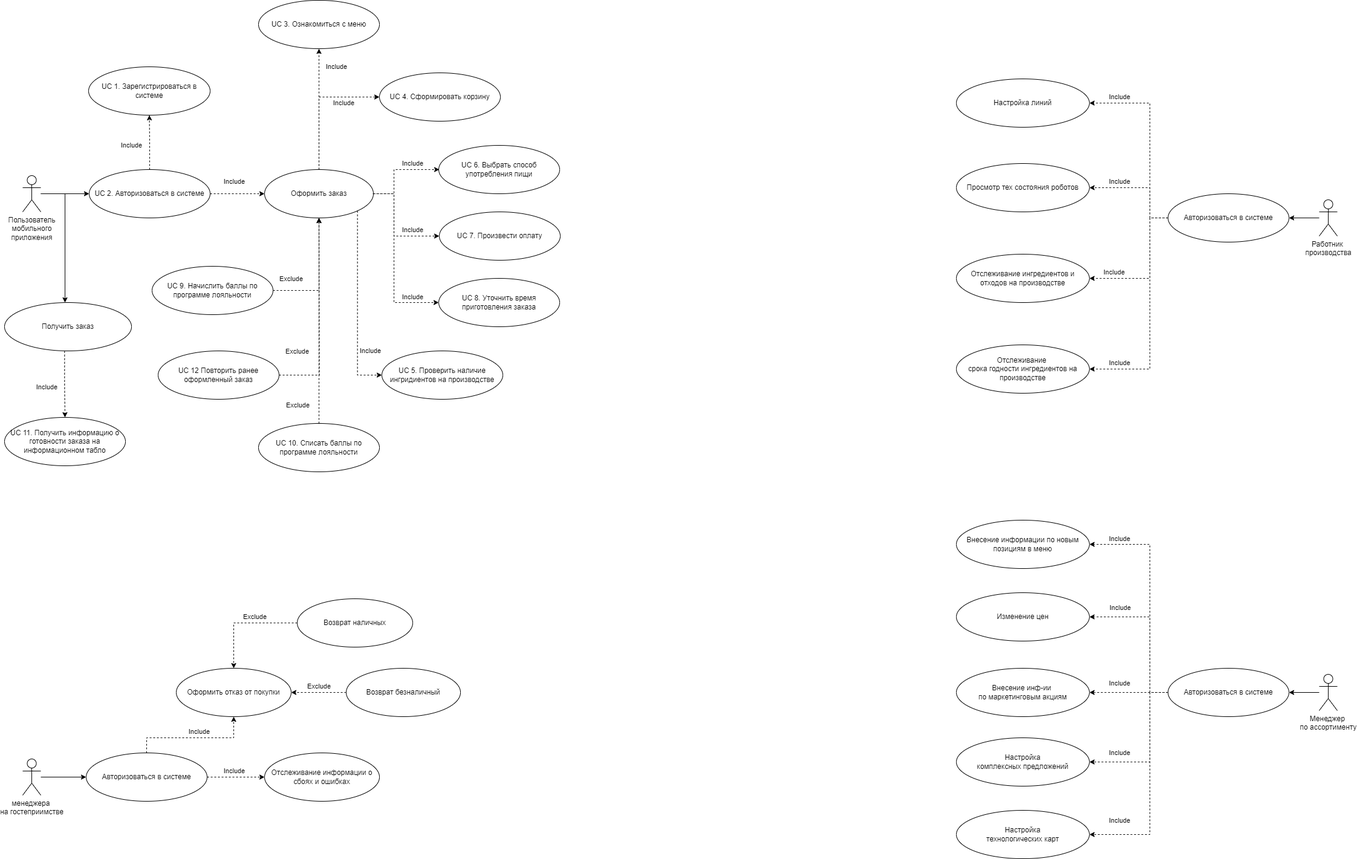
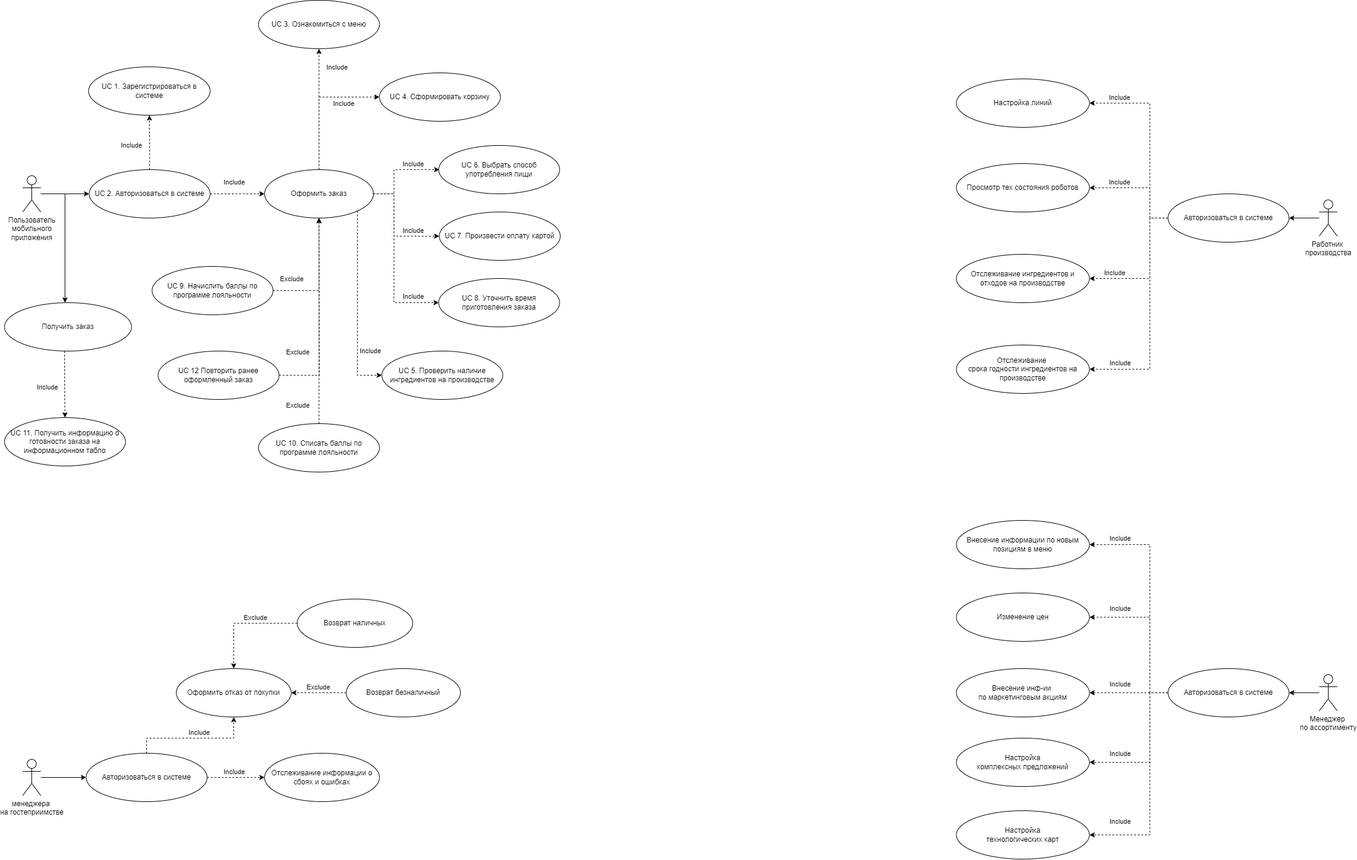
Attention1

diff --git a/5_SystemRequirements.md b/5_SystemRequirements.md
@@ -83,7 +83,7 @@ NFSUP2 Система должна обеспечивать мониторинг
 Основной сценарий |1. Пользователь нажал на кнопку N1 <br> 2. Система открыла страницу регистрации в приложении <br> 3. Пользователь заполнил все обязательные поля и нажал кнопку N2 <br> 4. Система проверила, что пользователь заполнил все обязательные поля <br> 5. Система проверила, что введенный номер телефона ранее не использовался при регистрации <br> 6. Система проверила, что E-mail ранее не использовался при регистрации <br> 7. Система проверила, что пароли одинаковые <br> 8. Система отобразила страницу подтверждения регистрации по СМС <br> 9. Пользователь ввел полученный код из СМС <br> 10. Система проверила правильность введенного кода из СМС <br> 11. Система открыла странцу с выбором категорий меню.Конец сценария.
 Альтернативный сценарий | AF1-3: Авторизация вместо регистрации. <br> 3.1. Пользователь нажал кнопку N20 <br> 3.2. Система отобразила страницу выбора авторизации или регистрации. Конец сценария.<br><br> AF1-4:Информация заполнена некорректно. <br> 4.1.Система вывела сообщение M1. Некорректно заполненная информация выделена красным цветом.  <br>  4.2.  Пользователь нажал кнопку N21  <br> 4.3. Переход к п.3 основного сценария. Конец сценария.<br><br> AF1-5:  Номер телефона уже существует в системе. <br> 5.1. Система вывела сообщение M2.Некорректно заполненная информация выделена красным цветом.  <br>  5.2.  Пользователь нажал кнопку N21  <br> 5.3. Переход к п.1 альтернативного сценария AF1-2. Конец сценария.<br><br> AF1-6: E-mail уже существует в системе. <br> 6.1. Система вывела сообщение M3. Некорректно заполненная информация выделена красным цветом.  <br>  6.2.  Пользователь нажал кнопку N21  <br> 6.3. Пользователь ввел новый E-mail и нажал кнопку N2 <br> 6.4. Переход к п.6 основного сценария. Конец сценария.<br><br> AF1-7:  Информация заполнена некорректно. <br> 7.1. Система вывела сообщение M4.Некорректно заполненная информация выделена красным цветом. <br>  7.2.  Пользователь нажал кнопку N21  <br> 7.3. Пользователь ввел в поля "Пароль" и "Повторить пароль" одинаковые значения и нажал кнопку N2 <br> 7.4. Переход к п.7 основного сценария. Конец сценария. <br><br> AF1-8: Корректировка данных на страницу регистрации в приложении  <br> 8.1.  Пользователь нажал кнопку N20 <br> 8.2. Система открыла страницу регистрации в приложении.Конец сценария.<br><br> AF1-9: Повторный запрос СМС <br> 9.1.  Пользователь нажал кнопку N3 <br> 9.2. Переход к п.9 основного сценария. Конец сценария.<br><br> AF1-10: Информация из СМС введена некорректно  <br> 10.1. Система вывела сообщение M5 <br> 10.2. Пользователь нажал кнопку N21  <br> 10.3. Пользователь ввел правильный код из СМС и нажал кнопку N2 <br> 10.4. Переход к п.10 основного сценария. Конец сценария.<br> 
 Наименования элементов пользовательского интерфейса| N1: "Зарегестрироваться" <br> N2: "Зарегестрироваться" <br> N3: "Повторно отправить СМС" <br> N20: "Назад" <br> N21: "OK" <br> M1: "Пользователь не заполнил все обязательные поля" <br> M2: "Введенный номер телефона уже зарегистрирован" <br> M3: "Введенный E-mail уже зарегистрирован " <br> M4: "Введенные пароли отличаются" <br> M5: "Введенный код из СМС не правильный"
-
+Диаграмма|
 
 #### 5.2.2.2 Авторизоваться в системе
 
@@ -95,7 +95,7 @@ NFSUP2 Система должна обеспечивать мониторинг
 Основной сценарий | 1. Пользователь нажал на кнопку 4 <br> 2. Система открыла страницу авторизации в приложении <br> 3. Пользователь заполнил номер телефона <br> 4. Пользователь ввел пароль <br> 5. Пользователь нажал кнопку N5 <br> 6. Система проверила указанный номер телефона и пароль <br> 7. Система открыла страницу с выбором категорий меню. Конец сценария.
 Альтернативный сценарий |AF2-3:Восстановление пароля <br> 3.1.Пользователь нажал на кнопку N6 <br> 3.2. Система вывела диалоговое окно для ввода E-mail, указанного при регистрации <br> 3.3.Пользователь ввел E-mail и нажал кнопку N7 <br> 3.4.Система отправила новый пароль на указанный E-mail<br> 3.5. Переход к п.4 основного сценария. Конец сценария.<br><br> AF2-4: Использование E-mail для авторизации <br> 4.1. Пользователь ввел E-mail <br> 4.2. Переход к п.4 основного сценария. Конец сценария.<br><br> AF2-5:Информация введена некорректно <br> 5.1. Система вывела сообщение M6 <br> 5.2. Переход к п.3 основного сценария. Конец сценария.<br> 
 Наименования элементов пользовательского интерфейса| N4: "Авторизоваться" <br> N5: "Войти" <br> N6: “Восстановить пароль” <br> N7: “Отправить” <br> M6: "Введен не правильный логин/пароль"
-
+Диаграмма|
 
 #### 5.2.2.3 Ознакомится с меню
 
@@ -107,7 +107,7 @@ NFSUP2 Система должна обеспечивать мониторинг
 Основной сценарий | 1. Пользователь нажал на кнопку N8 <br> 2. Система открыла странцу с блюдами выбранной категории <br> 3. Пользователь в левой третей части экрана выбирал категорию блюд нажав кнопку N9 <br> 4. В правой части экрана в области выбора блюд в зависимости от выбранной категории, система отобразила блюда категории. Конец сценария.
 Альтернативный сценарий| AF3-3: Альтернативный вариант просмотра меню <br> 3.1. Пользователь нажал на кнопку N20 <br> 3.2  Система открыла странцу выбора категорий меню <br> 3.3  Переход к п.1 основного сценария. Конец сценария.
 Наименования элементов пользовательского интерфейса|N8: "Категория меню" <br> N9: "Категория меню" <br> N20: "Назад" .
-
+Диаграмма|
 
 #### 5.2.2.4 Сформировать корзину
 
@@ -122,49 +122,55 @@ NFSUP2 Система должна обеспечивать мониторинг
 Диаграмма|
 
 
- #### 5.2.2.5 Проверить наличие ингредиентов на производстве
+#### 5.2.2.5 Проверить наличие ингредиентов на производстве
 
 Название |UC-5: Проверить наличие ингредиентов на производстве
 | ------------- | ------------- |  
 Краткое описание | Выбор способа употребления пищи в приложении
 Участники | 1. Пользователь   
 Предусловие | 1. Пользователь зашел в приложение <br> 2. Пользователь сформировал корзину [Перейти к UC-4](#5224-Сформировать-корзину) 
-Основной сценарий | 1. Пользователь нажал на кнопку N15 <br> 2. Система подтвердила наличие ингредиентов на складе <br> 3. Система открыла страницу выбора способа употребления пищи. Конец сценария.
+Основной сценарий | 1. Пользователь нажал на кнопку N15 или N18 <br> 2. Система подтвердила наличие ингредиентов на складе <br> 3. Система открыла страницу выбора способа употребления пищи. Конец сценария.
 Альтернативный сценарий| AF5-2a: Отсутствуют ингредиенты для выбранного блюда <br> 2a.1 Система уведомила об отсутствии ингредиентов на складе <br> 2a.2 Система предложила замену отсутствующего блюда <br> 2a.3 Пользователь нажал на кнопку N10 <br> 2a.4 Система добавила выбранное блюдо в корзину <br> 2a.5 Система удалила блюдо с отсутствующими ингредиентами <br> 2a.6 Переход к п.6 основного сценария UC-4 [Перейти к UC-4](#5224-Сформировать-корзину). Конец сценария.<br><br> AF5-2b: Отсутствуют ингредиенты для выбранного блюда <br> 2b.1 Система уведомила об отсутствии ингредиентов на складе <br> 2b.2 Система предложила замену отсутствующего блюда <br> 2b.3 Пользователь нажал на кнопку N20 <br> 2b.4 Система удалила блюдо с отсутствующими ингредиентами <br> 2b.5 Переход к п.6 основного сценария UC-4 [Перейти к UC-4](#5224-Сформировать-корзину). Конец сценария.<br><br>
-Наименования элементов пользовательского интерфейса|N10:"Блюдо" <br> N15: "Оформить заказ" <br> N20: "Назад".
+Наименования элементов пользовательского интерфейса|N10:"Блюдо" <br> N15: "Оформить заказ" <br> N18: "Оформить заказ" <br> N20: "Назад".
 Диаграмма|
 
- #### 5.2.2.6 Выбрать способ употребления пищи
+#### 5.2.2.6 Выбрать способ употребления пищи
 
 Название |UC-6: Выбрать способ употребления пищи 
 | ------------- | ------------- |  
 Краткое описание | Выбор способа употребления пищи в приложении
-Участники |  1. Пользователь зашел в приложение <br> 2. Пользователь сформировал корзину
-Предусловие | Пользователь авторизован в приложении
-Основной сценарий | 1. Пользователь нажал на кнопку N1  <br> 2. Система вывела способы употребления пищи <br> 3. Пользователь нажал на кнопку N2 <br> 4.  Система открыла странцу с блюдами выбранной категории. Конец сценария.
-Альтернативный сценарий| 3.1 Пользователь нажал на кнопку N3 <br> 3.2  Система открыла странцу с блюдами выбранной категории. Конец сценария.
-Наименования элементов пользовательского интерфейса|N1: "Категория меню" <br> N2: "с собой"  <br> N3:"в зале".
+Участники | 1. Пользователь  
+Предусловие | 1. Пользователь зашел в приложение <br> 2. Пользователь сформировал корзину [Перейти к UC-4](#5224-Сформировать-корзину) 
+Основной сценарий | 1. Пользователь нажал на кнопку N16  <br> 2. Система добавила в заказ способ употребления пищи <br> 3. Система открыла страницу времени приготовления блюд. Конец сценария <br><br>
+Альтернативный сценарий| AF6-1a: Употребление пищи в ресторане <br> 1a.1 Пользователь нажал на кнопку N17 <br> 1a.2  Система добавила в заказ способ употребления пищи <br> 1a.3 Система открыла страницу времени приготовления блюд. Конец сценария <br><br> AF6-1b: Изменение наполнения корзины <br> 1b.1 Пользователь нажал на кнопку N20 <br> 1b.2 Система открыла корзину. Конец сценария <br><br> AF6-4a: Изменение способа употребления пищи <br> 4a.1 Пользователь на странице оплаты заказа нажал кнопку N25 или N26 <br> 4a.2 Система открыла страницу выбора способа употребления пищи <br> 4a.3 Пользователь нажал на кнопку N16 <br> 4a.4 Система открыла страницу оплаты заказа <br> 4a.5 Система отобразила кнопку N25. Конец сценария <br><br> AF6-4b: Изменение способа употребления пищи <br> 4b.1 Пользователь на странице оплаты заказа нажал кнопку N25 или N26 <br> 4b.2 Система открыла страницу выбора способа употребления пищи <br> 4b.3 Пользователь нажал на кнопку N17 <br> 4b.4 Система открыла страницу оплаты заказа <br> 4b.5 Система отобразила кнопку N26. Конец сценария <br><br>
+Наименования элементов пользовательского интерфейса|N16: "с собой" <br> N17: "в зале"<br> N20: "Назад" <br> N25: "Заказ: C собой" <br> N26: "Заказ: В зале".
+Диаграмма|
 
+#### 5.2.2.7 Произвести оплату
 
-#### 5.2.2.7 Выбрать способ употребления пищи
-
-Название |UC-7: Произвести оплату
+Название |UC-7: Произвести оплату картой
 | ------------- | ------------- |  
 Краткое описание | 
-Участники | 1. Пользователь <br> 2. Система
-Предусловие | Пользователь зашел в приложение
-Основной сценарий | 1. Пользователь нажал на кнопку N1  <br> 2. Система вывела способы употребления пищи <br> 
+Участники | 1. Пользователь 
+Предусловие | Пользователь зашел в приложение <br> 2. Пользователь уточнил время приготовления заказа [Перейти к UC-8](#5228-Уточнить-время-приготовления-заказа) 
+Основной сценарий | 1. Пользователь нажал на кнопку N27  <br> 2. Система вывела страницу оплаты заказа <br> 3. Пользователь ввел номер карты, имя держателя карты, срок действия карты и CVV <br> 4. Система получила подтверждение оплаты <br> 5. Система отправила электронный чек об оплате на E-mail <br> 6. Система открыла страницу подтверждения оплаты <br> 7. Система отобразила номер заказа, адрес ресторана, время готовности заказа. Конец сценария <br><br> 
+Альтернативный сценарий| AF1-1: Корректировака заказа <br> 1.1 Пользователь нажал на кнопку N20 <br> 1.2 Пользователь 
+
+Наименования элементов пользовательского интерфейса|N27: "Оплатить заказ" <br> N20: "Назад".
+Диаграмма|
 
 #### 5.2.2.8 Уточнить время приготовления заказа
 
 Название |UC-8: Уточнить время приготовления заказа
 | ------------- | ------------- |  
 Краткое описание | 
-Участники | 1. Пользователь <br> 2. Система
-Предусловие | Пользователь зашел в приложение
-Основной сценарий | 1. Пользователь нажал на кнопку N1  <br> 2. Система вывела способы употребления пищи <br> 
+Предусловие | 1. Пользователь зашел в приложение <br> 2. Пользователь сформировал корзину [Перейти к UC-4](#5224-Сформировать-корзину) 
+Основной сценарий | 1. Пользователь нажал на кнопку выпадающего меню N22 <br> 2. Система отобразила даты от Сегодня до плюс Неделя  <br> 3. Пользователь выбрал дату  <br> 4. Пользователь нажал на кнопку выпадающего меню N23 <br> 5. Система отобразила часы  <br> 6. Пользователь выбрал время в часах <br> 7. Пользователь нажал на кнопку выпадающего меню N24 <br> 8. Система отобразила минуты  <br> 9. Пользователь выбрал время в минутах <br> 7. Пользователь нажал на кнопку N19. <br> 8. Система открыла страницу оплаты заказа. Конец сценария <br><br>
+Альтернативный сценарий| AF8-1a: Заказ на ближайшее время <br> 1a.1 Пользователь нажал на кнопку N19 <br> 1a.2 Система открыла страницу оплаты заказа. Конец сценария <br><br> AF8-1b: Изменение способа употребления пищи <br> 1a.1 Пользователь нажал на кнопку N19 <br> 1a.2 Система открыла страницу оплаты заказа. Конец сценария <br><br>
+Наименования элементов пользовательского интерфейса|N19: "Оформить заказ" <br> N22: "Дата" <br> N23: "Час" <br> N24: "Мин" 
+Диаграмма|
 
-#### 5.2.2.9 Уточнить время приготовления заказа
+#### 5.2.2.9 Получить информацию о готовности заказа на информационном табло
 
 Название |UC-11: Получить информацию о готовности заказа на информационном табло
 | ------------- | ------------- |  
@@ -174,7 +180,7 @@ NFSUP2 Система должна обеспечивать мониторинг
 Основной сценарий | 1. Пользователь нажал на кнопку N1  <br> 2. Система вывела способы употребления пищи <br> 
 
 ### 5.2.3 Описание UseCase, реализуемых в рамках первого релиза 
-#### 5.2.3.1 
+#### 5.2.3.1 Начислить баллы по программе лояльности
 
 Название |UC-9: Начислить баллы по программе лояльности
 | ------------- | ------------- |  
@@ -183,7 +189,7 @@ NFSUP2 Система должна обеспечивать мониторинг
 Предусловие | Пользователь зашел в приложение
 Основной сценарий | 1. Пользователь нажал на кнопку N1  <br> 2. Система вывела способы употребления пищи <br> 
 
-#### 5.2.3.2 
+#### 5.2.3.2 Списать баллы по программе лояльности
 
 Название |UC-10: Списать баллы по программе лояльности
 | ------------- | ------------- |  
@@ -192,8 +198,8 @@ NFSUP2 Система должна обеспечивать мониторинг
 Предусловие | Пользователь зашел в приложение
 Основной сценарий | 1. Пользователь нажал на кнопку N1  <br> 2. Система вывела способы употребления пищи <br> 
 
-#### 5.2.3.3 
-
+#### 5.2.3.3 Повторить ранее оформленный заказ 
+ 
 Название |UC 12: Повторить ранее оформленный заказ 
 | ------------- | ------------- |  
 Краткое описание | 
